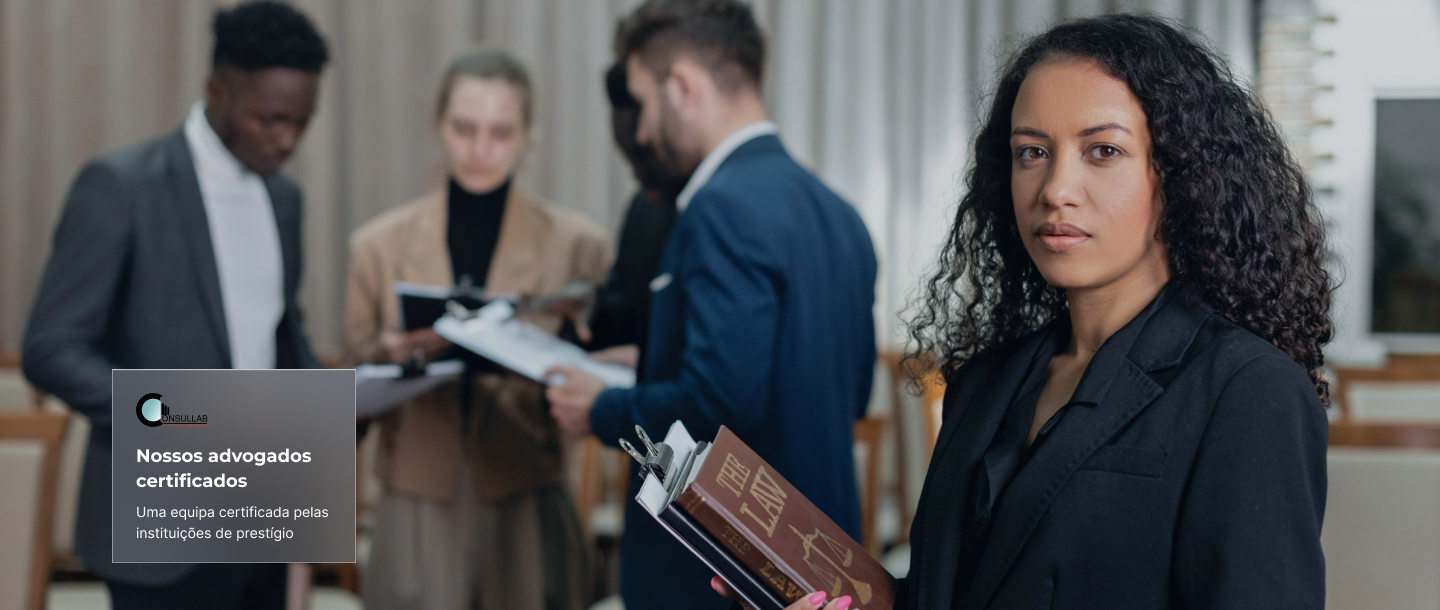
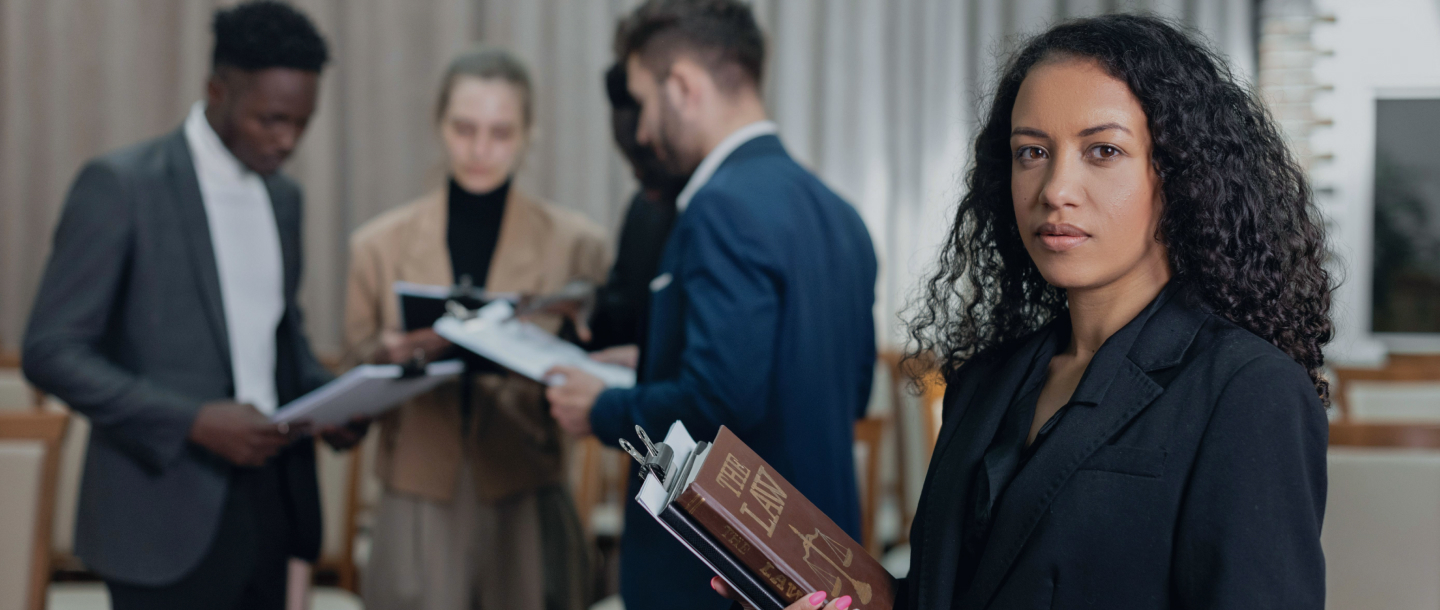
add: added section hero lawer to consullab

Changed region(s): [[0.0625, 0.5918, 0.25, 0.9344]]

diff --git a/consullab/src/app/page.tsx b/consullab/src/app/page.tsx
@@ -33,6 +33,7 @@ import CEO from "@public/assets/CEO.jpg";
 import Blog from "@public/assets/Blog.jpg";
 import { SectionService } from "@/components/sectionService";
 import { useMarginObserver } from "@/hooks/MarginObserver";
+import Logo from "@public/assets/Logo Consullab.svg";
 
 const montserrat = Montserrat({
   subsets: ["latin"],
@@ -62,9 +63,24 @@ export default function Home() {
         </div>
       </section>
       <section
-        className="relative bg-cover bg-center h-screen w-full mt-[72px] max-h-[610px]"
+        className="relative bg-cover lg:bg-center bg-origin-padding bg-right-top h-screen w-full mt-[72px] max-h-[454px] lg:max-h-[610px]"
         style={{ backgroundImage: `url(${Section.src})` }}
-      />
+      >
+        <div className="containerConssulab flex h-full justify-start items-end">
+          <div className="w-[190px] h-[178px] lg:w-[244px] lg:h-[194px] px-2 pt-2 pb-1 lg:px-6 lg:pt-6 lg:pb-5 bg-white/20 shadow-inner border border-[#e0dfe6]/40 backdrop-blur-[100px] justify-center items-center inline-flex">
+            <article className="">
+              <Image alt="Logo Consullab" src={Logo} width={72} height={34} />
+              <p className=" text-white text-sm lg:text-lg font-bold mt-4">
+                Nossos advogados certificados
+              </p>
+              <p className=" text-white text-xs lg:text-sm font-normal mt-2">
+                Uma equipa certificada pelas instituições de prestígio
+              </p>
+            </article>
+          </div>
+        </div>
+      </section>
+
       <section className="bg-[#091622] flex relative  lg:min-w-full overflow-hidden scrollbar-hide">
         <div className="min-w-[1000px]  containerConssulab text-lg w-full items-center justify-between flex bg-[rgb(9,22,34)] h-[105px]">
           <Image src={Slider8} alt="" />
@@ -344,8 +360,15 @@ export default function Home() {
       </section>
 
       <section className="w-full flex flex-col lg:flex-row">
-        <div className={"flex flex-col mt-[72px] lg:mt-0 lg:justify-end flex-1 w-full h-auto lg:min-h-[670px]"}>
-          <div style={{ marginLeft: `${leftMargin}px` }} className="space-y-8 my-8 " >
+        <div
+          className={
+            "flex flex-col mt-[72px] lg:mt-0 lg:justify-end flex-1 w-full h-auto lg:min-h-[670px]"
+          }
+        >
+          <div
+            style={{ marginLeft: `${leftMargin}px` }}
+            className="space-y-8 my-8 "
+          >
             <div className="flex justify-start text-[#4F7FAF]">
               <SiComma className="rotate-[180deg] -translate-x-4 w-16 h-16 md:w-24 md:h-24" />
               <SiComma className="rotate-[180deg] -translate-x-12 w-16 h-16 md:w-24 md:h-24" />
@@ -353,12 +376,12 @@ export default function Home() {
             <p className="text-[#173049] text-2xl md:text-[28px] font-bold leading-tight md:leading-[39.20px] lg:max-w-[488px]">
               Na Consullab, acreditamos que a transparência é a base de toda
               relação de confiança. Nosso compromisso é ser claro, honesto e
-              direto com nossos clientes, para que eles sempre saibam onde estão e
-              para onde estamos indo juntos.
+              direto com nossos clientes, para que eles sempre saibam onde estão
+              e para onde estamos indo juntos.
             </p>
             <p className="text-[#173049] text-base font-normal leading-normal lg:max-w-[488px]  mb-10">
-              Acreditamos que o verdadeiro valor de uma consultoria jurídica está
-              na capacidade de antecipar problemas e criar estratégias que
+              Acreditamos que o verdadeiro valor de uma consultoria jurídica
+              está na capacidade de antecipar problemas e criar estratégias que
               protejam e impulsionem os negócios dos nossos clientes.
             </p>
           </div>
@@ -421,9 +444,7 @@ export default function Home() {
                 <span className="sm:flex items-center justify-center size-12 sm:mr-4 left-0 top-0  sm:absolute sm:bg-[#4f7faf] h-full">
                   <FiPlus className="w-6 h-6 sm:text-slate-950 " />
                 </span>
-                <span className="sm:translate-x-4 ">
-                  Conheça toda a equipa
-                </span>
+                <span className="sm:translate-x-4 ">Conheça toda a equipa</span>
               </Button>
             </div>
           </div>
@@ -471,9 +492,7 @@ export default function Home() {
           </Card>
         </div>
         <div className="flex md:flex-1">
-          <Image src={Blog} alt="Blog da consullab"
-            className="w-full"
-          />
+          <Image src={Blog} alt="Blog da consullab" className="w-full" />
         </div>
       </section>
     </main>
